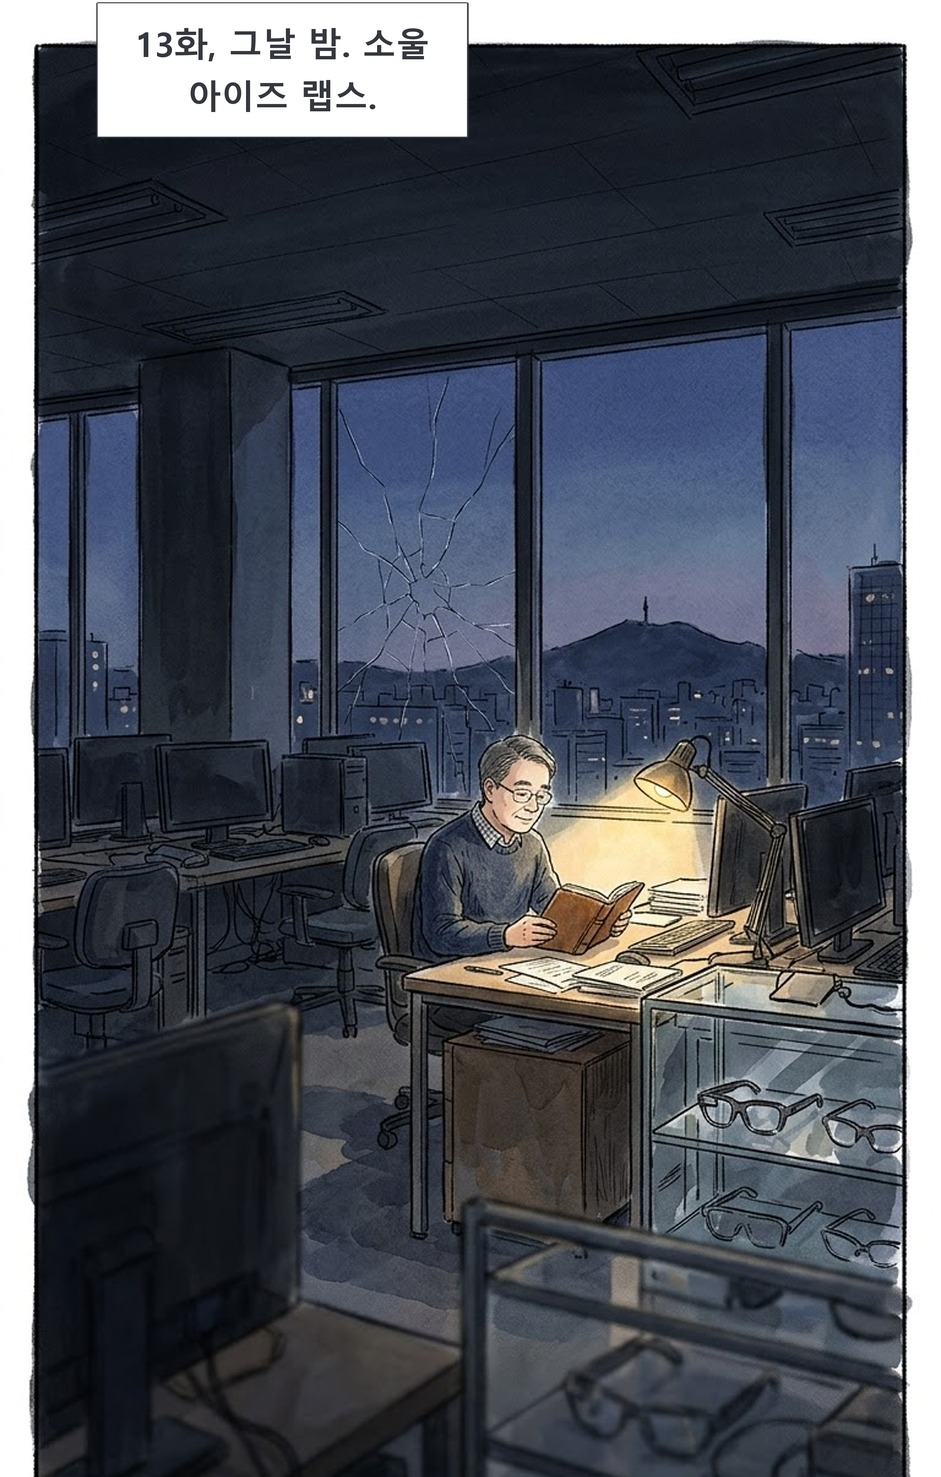
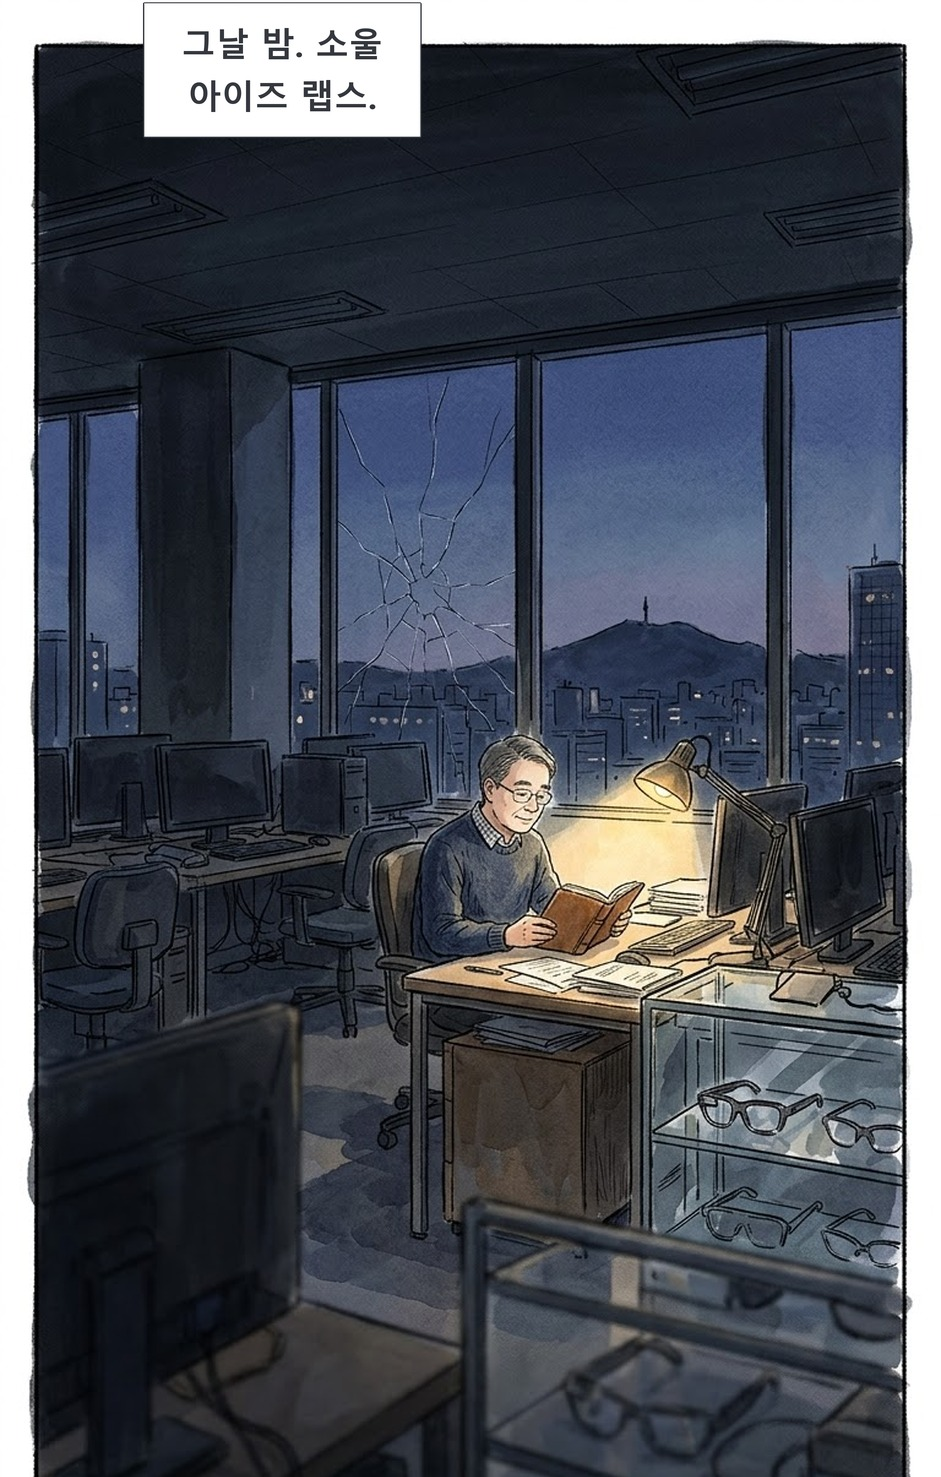
feat: 조아름의 퓨어데이 15화 큰 용 공개 + 14화 첫 캡션 정리
- 15화 61장 추가 (assets/pureday/ep15)
- 14화 첫 장: '13화, 그날 밤' → '그날 밤' (이전 화 번호 접두어 제거)

Changed region(s): [[0.0925, 0.0, 0.3082, 0.0934], [0.339, 0.0, 0.5239, 0.0934]]

diff --git a/data.js b/data.js
@@ -6,7 +6,7 @@ window.PORTAL = {
    "titleNote": "가제",
    "genre": "현대 일상 판타지 · 펜+수채 웹툰",
    "logline": "서울에서 펜과 수채로 하루를 그리는 스물네 살 조아름. 아버지가 만든 AR 글래스의 '버그' 덕분에, 동생 하임과 함께 보통 사람 눈에 보이지 않던 영적 전쟁을 보게 된다.",
-   "status": "시즌1 프롤로그 + 14화 공개",
+   "status": "시즌1 프롤로그 + 15화 공개",
    "cover": "assets/pureday/cover.jpg",
    "episodes": [
     {
@@ -1060,6 +1060,77 @@ window.PORTAL = {
       "assets/pureday/ep14/059.jpg"
      ],
      "thumb": "assets/pureday/ep14/001.jpg"
+    },
+    {
+     "num": 15,
+     "label": "15화",
+     "title": "큰 용",
+     "summary": "14화 다음 날 저녁. 미국·러시아·대한민국·유럽 우주 기지국이 동시에 **암흑물질**의 접근을 포착하고, 암흑물질이 각국 위성의 통신을 마비시켜 전 세계 미디어 송출이 막힌다(작가 확정 2026-10-17). 연구실 화면 속 암흑물질의 그림자는 퓨어랜드와 이어져 있다. 박사 \"큰 용이다.\" 아름의 등잔 열쇠가 다급하게 깜빡이고, 박사·하나·도윤은 연구실에서 기도하기로 한다. 골든 캐슬: 비룡 떼와 용장 셋(아포피스·낙심의 용장·뿔 꺾인 라합)이 성을 돌고, 서쪽 하늘이 갈라지며 **큰 용(옛 뱀)** — 깨진 거울 같은 비늘, 해를 가리는 날개 — 이 나타나 성 전체를 휘감는다. 큰 용의 잿빛 숨에 병사들은 비늘에 비친 자기 실패를 보고 무기를 떨군다. 천사장 미가엘이 막지만 천사 병사는 적다. 아름은 13화의 왕관 쓴 자기, 하임은 4화의 숨긴 영상을 비늘에서 보고 갑주가 흐려지지만, 은바와 서로의 손으로 돌아온다. 돔 한쪽이 크게 깨져 떨어진다(대균열). 남매가 숨은 방에서 둘이 말씀을 읽어도 빈 검 홈은 빛나지 않는다 — 부조는 **열두 사람이 함께 한 자루의 검을 드는** 모습. 기록관 \"꼭 이 성 안에 있어야 함께 읽는 것일까요?\" → 아름 \"…방송.\" 밤, 큰 용은 성을 감은 채 기다리고, 미가엘 \"새벽에 총공세가 온다.\" 1차 전쟁이 끝난 밤, 아름 \"위성이 막혔으면 기도로 보내요, 여기서.\" 남매·병사·천사·견습 창병이 큰 홀에서 함께 기도하고, 서울의 박사가 **글래스와 연결된 수신기**로 퓨어랜드에서 오는 기도를 받아 **에너지로 변환, 증폭기로 송출**한다(작가 확정 2026-10-17). 기도의 빛 한 줄기가 하늘로 오르고, 증폭기가 끝까지 차오르며 '퓨어랜드에서의 첫 방송'이 연결된다. 끝: 아름이 글래스 너머로 \"같이 읽어 주세요\" — 어두운 지구 곳곳에 작은 화면들이 켜진다(16화: 이 방송으로 암흑물질이 파괴되고 각국 미디어 센터가 돌아온다 + 함께 선포하는 말씀).",
+     "scenes": 70,
+     "pages": [
+      "assets/pureday/ep15/001.jpg",
+      "assets/pureday/ep15/002.jpg",
+      "assets/pureday/ep15/003.jpg",
+      "assets/pureday/ep15/004.jpg",
+      "assets/pureday/ep15/005.jpg",
+      "assets/pureday/ep15/006.jpg",
+      "assets/pureday/ep15/007.jpg",
+      "assets/pureday/ep15/008.jpg",
+      "assets/pureday/ep15/009.jpg",
+      "assets/pureday/ep15/010.jpg",
+      "assets/pureday/ep15/011.jpg",
+      "assets/pureday/ep15/012.jpg",
+      "assets/pureday/ep15/013.jpg",
+      "assets/pureday/ep15/014.jpg",
+      "assets/pureday/ep15/015.jpg",
+      "assets/pureday/ep15/016.jpg",
+      "assets/pureday/ep15/017.jpg",
+      "assets/pureday/ep15/018.jpg",
+      "assets/pureday/ep15/019.jpg",
+      "assets/pureday/ep15/020.jpg",
+      "assets/pureday/ep15/021.jpg",
+      "assets/pureday/ep15/022.jpg",
+      "assets/pureday/ep15/023.jpg",
+      "assets/pureday/ep15/024.jpg",
+      "assets/pureday/ep15/025.jpg",
+      "assets/pureday/ep15/026.jpg",
+      "assets/pureday/ep15/027.jpg",
+      "assets/pureday/ep15/028.jpg",
+      "assets/pureday/ep15/029.jpg",
+      "assets/pureday/ep15/030.jpg",
+      "assets/pureday/ep15/031.jpg",
+      "assets/pureday/ep15/032.jpg",
+      "assets/pureday/ep15/033.jpg",
+      "assets/pureday/ep15/034.jpg",
+      "assets/pureday/ep15/035.jpg",
+      "assets/pureday/ep15/036.jpg",
+      "assets/pureday/ep15/037.jpg",
+      "assets/pureday/ep15/038.jpg",
+      "assets/pureday/ep15/039.jpg",
+      "assets/pureday/ep15/040.jpg",
+      "assets/pureday/ep15/041.jpg",
+      "assets/pureday/ep15/042.jpg",
+      "assets/pureday/ep15/043.jpg",
+      "assets/pureday/ep15/044.jpg",
+      "assets/pureday/ep15/045.jpg",
+      "assets/pureday/ep15/046.jpg",
+      "assets/pureday/ep15/047.jpg",
+      "assets/pureday/ep15/048.jpg",
+      "assets/pureday/ep15/049.jpg",
+      "assets/pureday/ep15/050.jpg",
+      "assets/pureday/ep15/051.jpg",
+      "assets/pureday/ep15/052.jpg",
+      "assets/pureday/ep15/053.jpg",
+      "assets/pureday/ep15/054.jpg",
+      "assets/pureday/ep15/055.jpg",
+      "assets/pureday/ep15/056.jpg",
+      "assets/pureday/ep15/057.jpg",
+      "assets/pureday/ep15/058.jpg",
+      "assets/pureday/ep15/059.jpg",
+      "assets/pureday/ep15/060.jpg",
+      "assets/pureday/ep15/061.jpg"
+     ],
+     "thumb": "assets/pureday/ep15/001.jpg"
     }
    ]
   },

diff --git a/index.html b/index.html
@@ -51,7 +51,7 @@ footer{text-align:center;color:var(--muted);font-size:12px;padding:24px 16px 40p
 <nav id="nav"></nav>
 <main id="main"></main>
 <footer>여호수아 시즌1은 기존 Joshua-story 사이트에서 열립니다.</footer>
-<script src="data.js?v=202610171904"></script>
+<script src="data.js?v=202610181913"></script>
 <script>
 const esc = s => String(s).replace(/[&<>"]/g, c => ({'&':'&amp;','<':'&lt;','>':'&gt;','"':'&quot;'}[c]));
 const nav = document.getElementById('nav'), main = document.getElementById('main');
